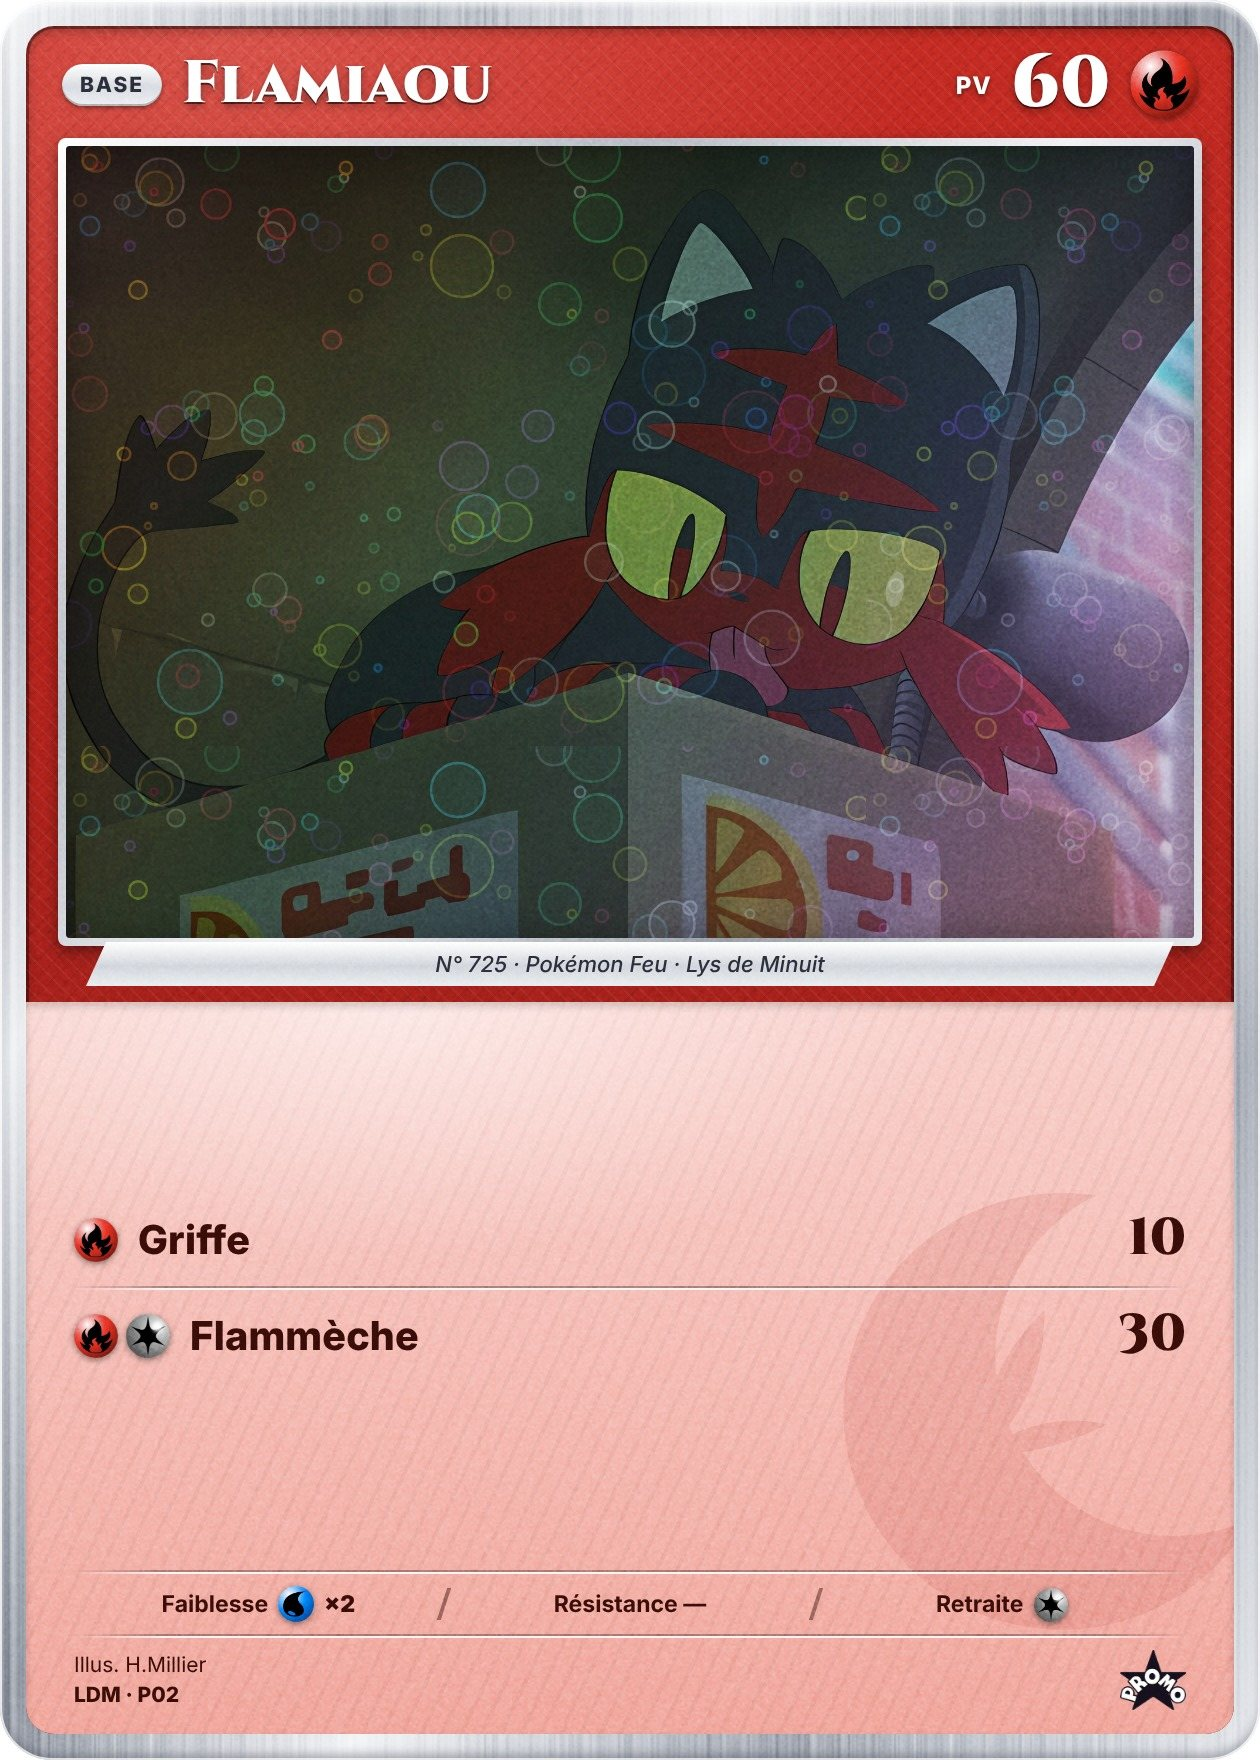
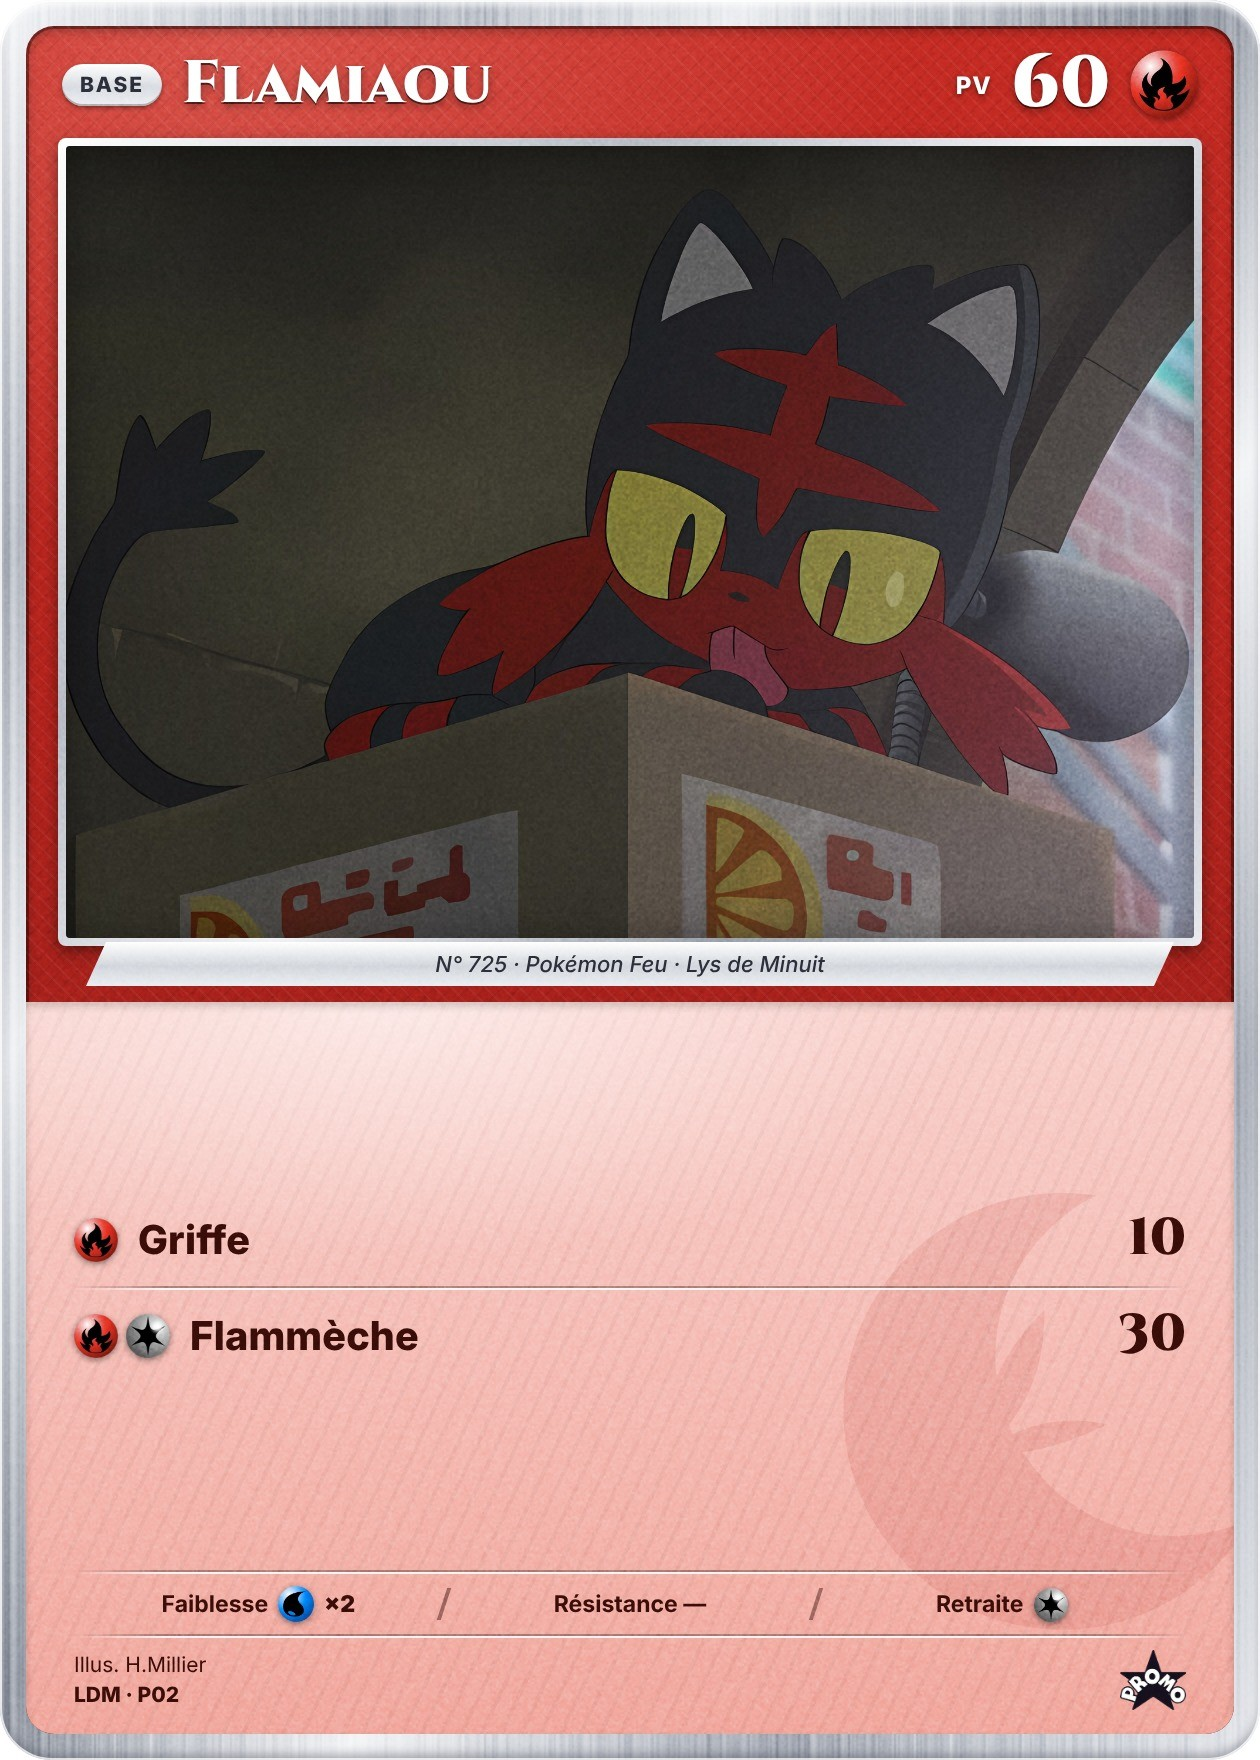
1.0.3 : holo cosmos de Flamiaou animé, flèches masquées pour une seule carte
Claude-Session: https://claude.ai/code/session_014NZ2WAspzSUngQzNe7nKYd

diff --git a/app/index.html b/app/index.html
@@ -245,6 +245,8 @@ nav.tabs .nb{position:absolute;top:5px;left:calc(50% + 5px);min-width:17px;heigh
 .ach2 .f{display:flex;align-items:center;gap:8px;font-size:11.5px;color:var(--muted);font-variant-numeric:tabular-nums}
 .ach2 .f .bar{flex:1;height:5px;min-width:40px}
 .ttag{font-size:10.5px;font-weight:800;color:var(--accent);border:1px solid var(--line);border-radius:99px;padding:1px 7px;white-space:nowrap}
+.cosmos{mix-blend-mode:color-dodge;opacity:.45;background:url(cosmos.svg) 0 0/400px 300px;background-position:calc(var(--mx) * 1.6) calc(var(--my) * 1.2);animation:none}
+.cosmos2{mix-blend-mode:color-dodge;opacity:.25;background:url(cosmos.svg) 0 0/260px 195px;background-position:calc(var(--mx) * -1.2) calc(var(--my) * -0.9);filter:hue-rotate(90deg)}
 @media (max-width:440px){.brand{font-size:15px}.res{gap:5px}.pill{padding:4px 8px;font-size:12px}.topin{gap:8px}}
 @media (prefers-reduced-motion:reduce){.pack,.pack::after,.bigpack .glint,.rainbow,.rainbow2,.goldsheen,.goldband,.silverband,.spshine,.cosmos,.stack .aura.on{animation:none}}
 </style>
@@ -678,7 +680,7 @@ function fxFor(c){
   if(r==="R") return foil(7.84);
   if(r==="DR") return c.rr==="R"?foil(8.98):"";
   if(r==="EX") return `<div class="fx rainbow" ${box({l:5.24,t:8.3,w:89.52,h:47.27})}></div><div class="fx rainbow2" ${box({l:5.24,t:8.3,w:89.52,h:47.27})}></div><div class="fx arglow" ${box({l:5.24,t:8.3,w:89.52,h:47.27})}></div>`;
-  if(r==="PR") return c.fx==="cosmos" ? "" : `<div class="fx arglow full"></div><div class="fx rainbow2 full" style="opacity:.10"></div>`;
+  if(r==="PR") return c.fx==="cosmos" ? `<div class="fx" ${box(WIN,"overflow:hidden")}><div class="fx full cosmos"></div><div class="fx full cosmos2"></div><div class="fx full rainbow" style="opacity:.14"></div></div>` : `<div class="fx arglow full"></div><div class="fx rainbow2 full" style="opacity:.10"></div>`;
   if(r==="SP") return `<div class="fx spshine" ${box({l:5.24,t:8.98,w:89.52,h:47.95})}></div><div class="fx goldband full" style="opacity:.6"></div>`;
   if(r==="ESC") return `<div class="fx rainbow full" style="opacity:.16"></div><div class="fx rainbow2 full" style="opacity:.14"></div><div class="fx arglow full"></div>`;
   if(r==="AR") return `<div class="fx arglow full"></div><div class="fx rainbow2 full" style="opacity:.10"></div>`;
@@ -691,7 +693,7 @@ function showV(){
   $("vimg").src="cards/"+c.f; $("vimg").alt=c.name; $("vfx").innerHTML=fxFor(c);
   $("vName").textContent=c.name; $("vInfo").textContent=`${c.n>142?"LDM · P"+String(c.n-142).padStart(2,"0"):"LDM · "+pad(c.n)+"/101"} · ${c.n>142?"Promo":label(c)} · possédée ×${owned(c.n)}`;
   const fav=S.fav.includes(c.n); $("vFav").setAttribute("aria-pressed",String(fav)); $("vFav").textContent=fav?"Retirer de la vitrine":"Mettre en vitrine";
-  $("vPrev").disabled = vNums.length<2; $("vNext").disabled = vNums.length<2;
+  $("vPrev").style.visibility = $("vNext").style.visibility = vNums.length<2 ? "hidden" : "visible";
 }
 $("vPrev").onclick=()=>{vIdx=(vIdx-1+vNums.length)%vNums.length;showV();};
 $("vNext").onclick=()=>{vIdx=(vIdx+1)%vNums.length;showV();};
